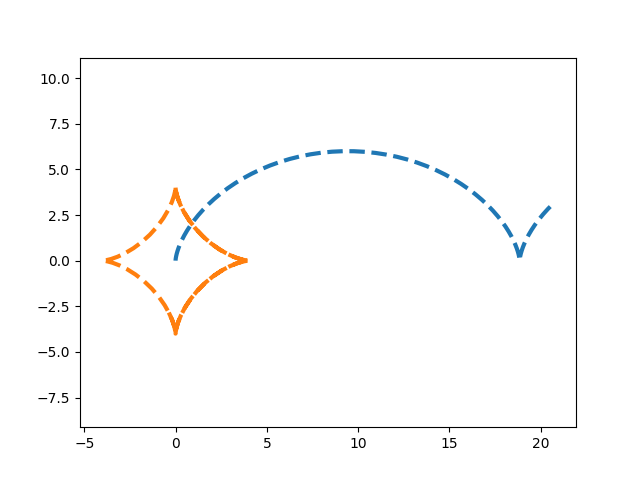
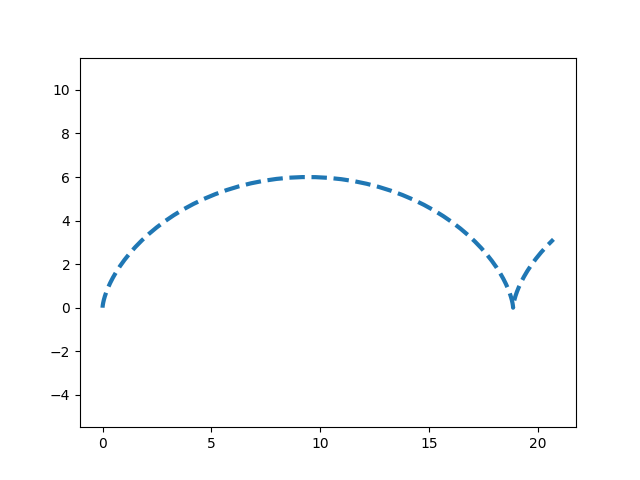
лаба-7

diff --git a/lab_7_task_2.py b/lab_7_task_2.py
@@ -1,0 +1,30 @@
+from matplotlib.animation import FuncAnimation
+import matplotlib.pyplot as plt 
+import numpy as np 
+
+def circle_move(R, time):
+    R = 0.02 * time
+    alpha = np.arange(0, 3*np.pi, 0.1)
+    x = R*np.cos(alpha)
+    y = R*np.sin(alpha)
+    return x, y
+
+def animate(i):
+    ball.set_data(circle_move(R=0.5, time = i))
+
+if __name__ == '__main__':
+    fig, ax = plt.subplots()
+    ball, = plt.plot([], [], '-', color='r', label ='Ball')
+
+    edge = 3
+    plt.axis('equal')
+    ax.set_xlim(-edge, edge)
+    ax.set_ylim(-edge, edge)
+
+    ani = FuncAnimation(fig,
+                        animate,
+                        frames=100,
+                        interval=30
+                        )
+    
+    ani.save('animation_task2.gif') 

diff --git a/lab_7_task_3.py b/lab_7_task_3.py
@@ -1,0 +1,26 @@
+import numpy as np
+import matplotlib.pyplot as plt
+from matplotlib.animation import FuncAnimation
+
+fig, ax = plt.subplots() 
+
+anim_object, = plt.plot([], [], '-', lw=2) 
+
+xdata, ydata = [], [] 
+
+ax.set_xlim(-5, 5) 
+ax.set_ylim(-5, 5) 
+
+def update(t):
+    xdata.append(np.sin(t) * (np.e**np.cos(t) - 2 * np.cos(4*t) + np.sin**5 * (t/12)))
+    ydata.append(np.cos(t) * (np.e**np.cos(t) - 2 * np.cos(4*t) + np.sin**5 * (t/12)))
+    anim_object.set_data(xdata, ydata) 
+    return anim_object,
+
+ani = FuncAnimation(fig,
+                    update, 
+                    frames=np.arange(0, 2*np.pi, 0.1),
+                    interval=100 
+                    )            
+
+ani.save('animation_task_3.gif')

diff --git a/lab_7_task_1.py b/lab_7_task_1.py
@@ -13,15 +13,3 @@ def cicloida (a=3):
 
 if __name__ == '__main__':
     cicloida()
-
-def astroida (r=4):
-    t = np.arange(0, 10, 0.1)
-    x = r * (np.sin(t))**3
-    y = r * (np.cos(t))**3
-
-    plt.plot(x, y, ls='--', lw=3)
-    plt.axis('equal')
-    plt.savefig('fig_task1.png')
-
-if __name__ == '__main__':
-    astroida()
